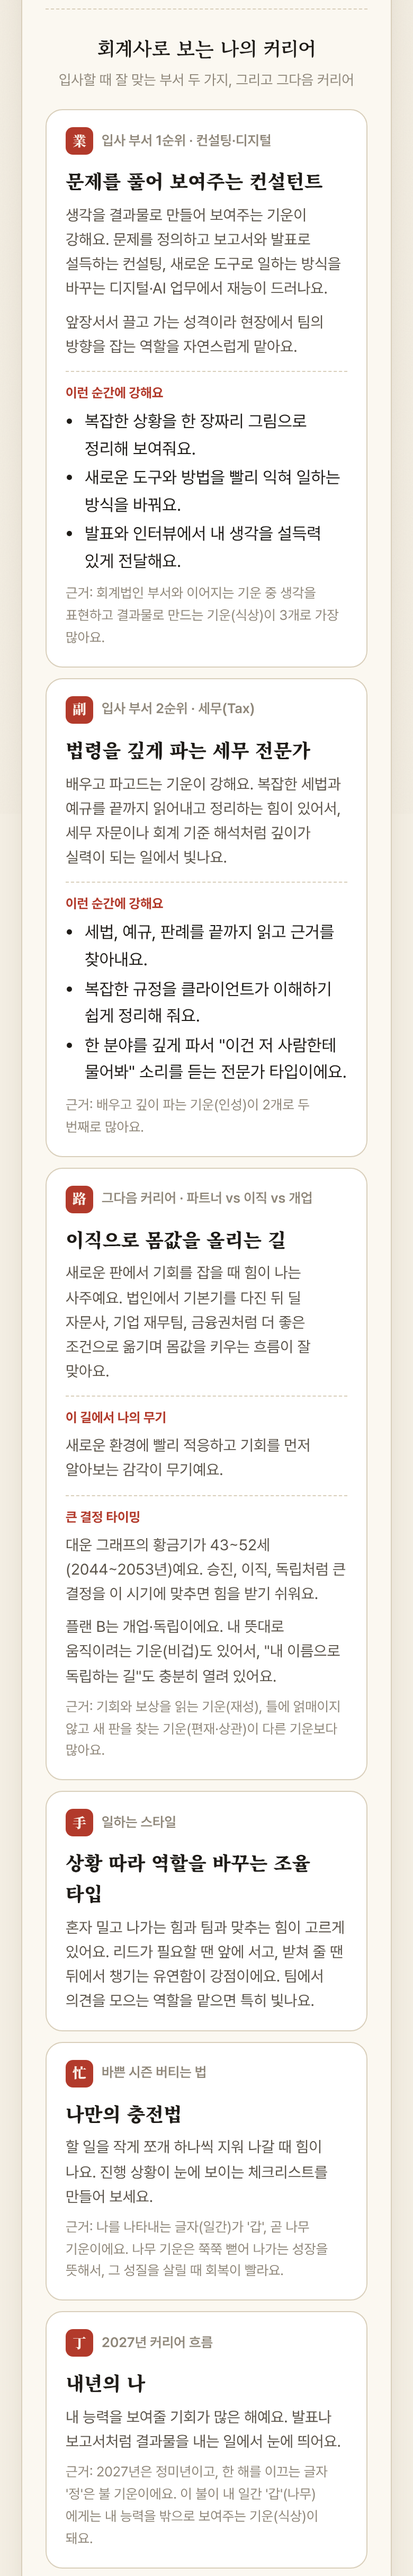
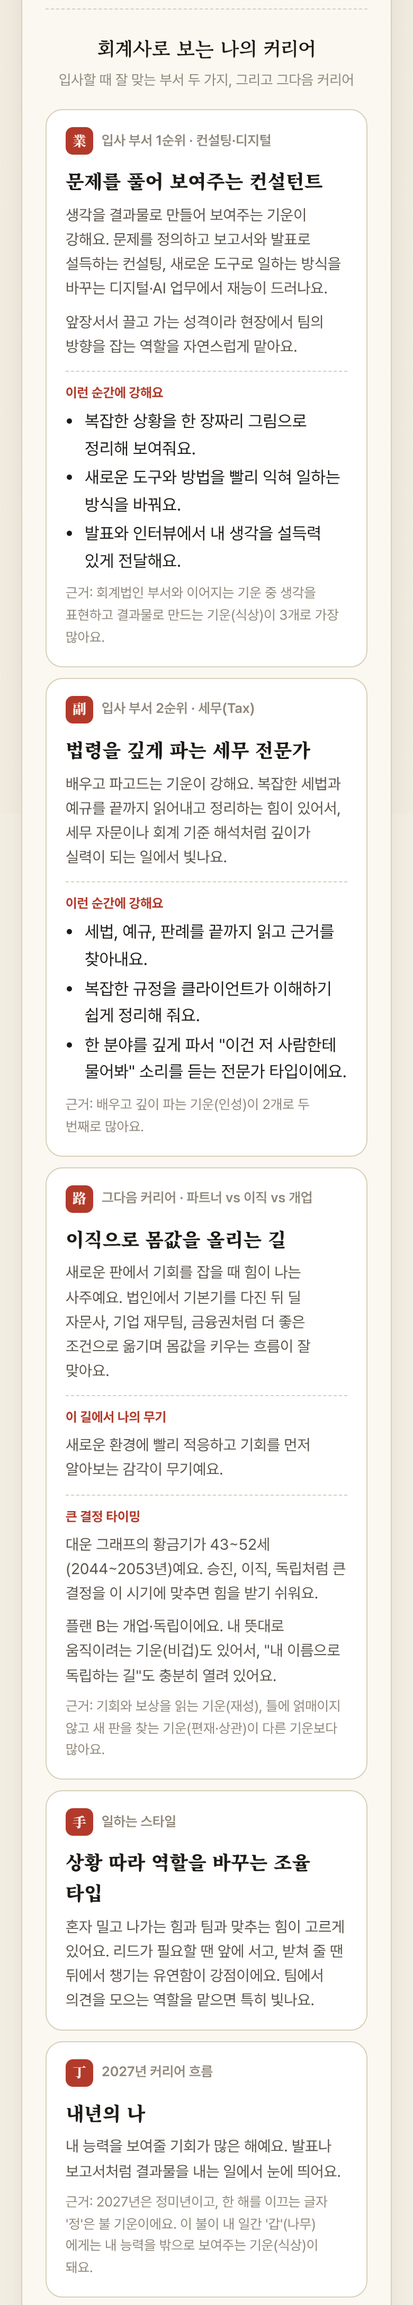
회계사 커리어에서 '바쁜 시즌 버티는 법' 빼기
Claude-Session: https://claude.ai/code/session_012bKZfKrCyZ1atjBTGebht7

diff --git a/lib/career.js b/lib/career.js
@@ -90,14 +90,6 @@ const STYLE = {
   },
 };
 
-// 바쁜 시즌(감사 시즌·신고 기간)을 버티는 나만의 방법. 일간의 오행으로 고른다.
-const BUSY = {
-  목: '할 일을 작게 쪼개 하나씩 지워 나갈 때 힘이 나요. 진행 상황이 눈에 보이는 체크리스트를 만들어 보세요.',
-  화: '사람들과 이야기하며 에너지를 충전해요. 야근 중 동기들과의 짧은 수다와 맛있는 저녁이 최고의 회복제예요.',
-  토: '규칙적인 루틴이 흔들리지 않게 지켜줘요. 출근 시간, 식사, 잠만 일정하게 챙겨도 컨디션이 오래가요.',
-  금: '깔끔하게 정리된 환경에서 집중력이 올라가요. 폴더와 조서를 정리하는 시간이 오히려 일을 빨리 끝내 줘요.',
-  수: '중간중간 머리를 비우는 시간이 필요해요. 짧은 산책이나 음악 한 곡이 막혔던 생각을 풀어줘요.',
-};
 
 // 타고난 성격(일간)이 회계사 일에서 어떻게 드러나는지
 const TRAIT = {
@@ -116,13 +108,6 @@ const TRAIT = {
 const STEM_ELEMENT = { 갑: '목', 을: '목', 병: '화', 정: '화', 무: '토', 기: '토', 경: '금', 신: '금', 임: '수', 계: '수' };
 
 const EL_NAME = { 목: '나무', 화: '불', 토: '흙', 금: '쇠', 수: '물' };
-const EL_MEANING = {
-  목: '쭉쭉 뻗어 나가는 성장',
-  화: '밖으로 퍼지는 열정과 사교성',
-  토: '단단하게 버티는 꾸준함과 안정',
-  금: '군더더기 없이 다듬는 정리와 결단',
-  수: '흐르며 스며드는 유연함과 생각',
-};
 const GROUP_PLAIN = {
   비겁: '나와 같은 편이 되어 주는 기운(비겁)',
   식상: '내 능력을 밖으로 보여주는 기운(식상)',
@@ -245,8 +230,6 @@ export function readCareer(saju) {
     trait: TRAIT[saju.dayMaster],
     style,
     path,
-    busy: BUSY[STEM_ELEMENT[saju.dayMaster]],
-    busyBasis: `근거: 나를 나타내는 글자(일간)가 '${saju.dayMaster}', 곧 ${EL_NAME[STEM_ELEMENT[saju.dayMaster]]} 기운이에요. ${EL_NAME[STEM_ELEMENT[saju.dayMaster]]} 기운은 ${EL_MEANING[STEM_ELEMENT[saju.dayMaster]]}을 뜻해서, 그 성질을 살릴 때 회복이 빨라요.`,
     year: YEAR_2027[yearGroup],
     yearBasis: `근거: 2027년은 정미년이고, 한 해를 이끄는 글자 '정'은 불 기운이에요. 이 불이 내 일간 '${saju.dayMaster}'(${EL_NAME[STEM_ELEMENT[saju.dayMaster]]})에게는 ${GROUP_PLAIN[yearGroup]}이 돼요.`,
   };

diff --git a/public/index.html b/public/index.html
@@ -782,7 +782,6 @@
           ${c.path.planB ? `<p class="more">${c.path.planB}</p>` : ''}
           <p class="basis">${c.path.basis}</p>`)}
         ${card('手', '일하는 스타일', c.style.title, c.style.body)}
-        ${card('忙', '바쁜 시즌 버티는 법', '나만의 충전법', c.busy, c.busyBasis ? `<p class="basis">${c.busyBasis}</p>` : '')}
         ${card('丁', '2027년 커리어 흐름', '내년의 나', c.year, c.yearBasis ? `<p class="basis">${c.yearBasis}</p>` : '')}`;
       box.hidden = false;
     }

diff --git a/README.md b/README.md
@@ -21,7 +21,7 @@
 결과는 휴대폰에서 끝까지 읽히도록 3페이지(탭 + "다음 페이지" 버튼)로 나눴다.
 
 1. **사주와 나**: (편성이 공개되면 맨 위에) 내 MT조(조 설명, 조 기운, 조원별 궁합을 잘 맞는 순서로), 일주 동물, 사주 여덟 글자와 오행 분포, 연애·재물 풀이, 매력 지수와 신살(도화·홍염·역마·괴강), 2027년 운세, 나와 잘 맞는 사람
-2. **회계사 커리어**: 입사 부서 1·2순위(감사·세무·딜·컨설팅 중, 강점과 근거), 그다음 커리어(파트너·이직·개업, 대운 황금기와 연결), 일하는 스타일, 바쁜 시즌 충전법, 2027년 커리어 흐름
+2. **회계사 커리어**: 입사 부서 1·2순위(감사·세무·딜·컨설팅 중, 강점과 근거), 그다음 커리어(파트너·이직·개업, 대운 황금기와 연결), 일하는 스타일, 2027년 커리어 흐름
 3. **인생 흐름**: 나의 기운(직진형·균형형·흡수형과 % 근거), 대운 그래프와 10년 카드(연도·간지·앞/뒤 5년), MT 이후 올해 남은 두 달, 2027년 힘이 되는 달
 
 ## AI를 어디에 쓰고, 어디에 안 쓰는가
